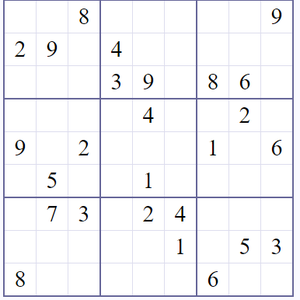
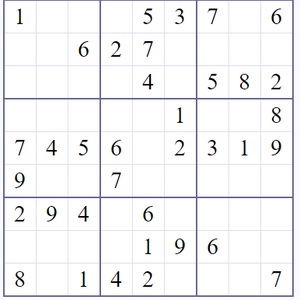
more work

diff --git a/backtracking.py b/backtracking.py
@@ -1,13 +1,13 @@
 import copy
-staticList = [[4, 2, 0, 0, 0, 3, 8, 0, 0],
-        [0, 0, 3, 4, 0, 0, 2, 7, 0],
-        [0, 8, 0, 0, 2, 5, 9, 3, 4],
-        [5, 0, 1, 0, 4, 0, 0, 0, 0],
-        [0, 0, 0, 5, 0, 7, 0, 0, 0],
-        [0, 0, 0, 0, 6, 0, 1, 0, 3],
-        [3, 1, 2, 8, 7, 0, 0, 4, 0],
-        [0, 5, 9, 0, 0, 4, 7, 0, 0],
-        [0, 0, 4, 9, 0, 0, 0, 6, 1]]
+staticList = [[1, 0, 0, 0, 5, 3, 7, 0, 6],
+              [0, 0, 6, 2, 7, 0, 0, 0, 0],
+              [0, 0, 0, 0, 4, 0, 5, 8, 2],
+              [0, 0, 0, 0, 0, 1, 0, 0, 8],
+              [7, 4, 5, 6, 0, 2, 3, 1, 9],
+              [9, 0, 0, 7, 0, 0, 0, 0, 0],
+              [2, 9, 4, 0, 6, 0, 0, 0, 0],
+              [0, 0, 0, 0, 1, 9, 6, 0, 0],
+              [8, 0, 1, 4, 2, 0, 0, 0, 7]]
 
 for i in range(9):
     try:
@@ -56,7 +56,7 @@ def rowSearch(firstIndex,searchValue,boardList):
     return True
 def findEmptyIndex(boardList,currentPoint):
     foundIndex = False
-    if currentPoint[1] == 9:
+    if currentPoint[1] == 0:
         currentPoint[0] -= 1
         currentPoint[1] = 0
     else:
@@ -65,23 +65,31 @@ def findEmptyIndex(boardList,currentPoint):
         if boardList[currentPoint[0]][currentPoint[1]] != 0:
             if currentPoint[1] == 0:
                 currentPoint[0] -= 1
-                currentPoint[1] = 9
+                currentPoint[1] = 8
             else:
                 currentPoint[1] -= 1
         else:
             return currentPoint
+
+
 while validEntry == False:
+    #if the current cell is not zero, then go back one cell and continue until it is 0
     if(staticList[activeIndex[0]][activeIndex[1]] != 0):
-        if activeIndex[1] == 9: #at the end of a row
+        if activeIndex[1] == 8: #at the end of a row
             activeIndex[0] += 1
             activeIndex[1] = 0
         else:
             activeIndex[1] += 1
         continue
+    #checks the current searchvalue through the search functions
     if not boxSearch(activeIndex, activeSearch, activeList) or not columnSearch(activeIndex,activeSearch,activeList) or not rowSearch(activeIndex,activeSearch,activeList):
-        if activeSearch == 9:
-            activeIndex = findEmptyIndex(staticList,activeIndex)
+        #if one of the searches failed IE Invalid Number
+
+        if activeSearch == 9: #if the current search term is a 9(IE reached the end of possibilities for current cell)
+            activeList[activeIndex[0]][activeList[1]] = 0
+            activeIndex = findEmptyIndex(staticList,activeIndex) #call function to find last original empty cell.
             while activeList[activeIndex[0]][activeIndex[1]] == 9:
+                activeList[activeIndex[0]][activeIndex[1]] = 0
                 activeIndex = findEmptyIndex(staticList,activeIndex)
             activeSearch = activeList[activeIndex[0]][activeIndex[1]] + 1
         else:
@@ -89,9 +97,11 @@ while validEntry == False:
     else:
         activeList[activeIndex[0]][activeIndex[1]] = activeSearch
         activeSearch = 1
-        if activeIndex[1] == 9:  # at the end of a row
+        if activeIndex[1] == 8:  # at the end of a row
             activeIndex[0] += 1
             activeIndex[1] = 0
         else:
             activeIndex[1] += 1
-    print(activeList)
+    for each in activeList:
+        print(each)
+    print("")

diff --git a/Solver.py b/Solver.py
@@ -3,15 +3,15 @@ import cv2, numpy as np
 from PIL import Image
 topLeftLocation = pyautogui.locateCenterOnScreen("TopLeft.png")
 bottomRightLocation = pyautogui.locateCenterOnScreen("BottomRight.png")
-sudokuGrid = [[[],[],[],[],[],[],[],[],[]],
-              [[],[],[],[],[],[],[],[],[]],
-              [[],[],[],[],[],[],[],[],[]],
-              [[],[],[],[],[],[],[],[],[]],
-              [[],[],[],[],[],[],[],[],[]],
-              [[],[],[],[],[],[],[],[],[]],
-              [[],[],[],[],[],[],[],[],[]],
-              [[],[],[],[],[],[],[],[],[]],
-              [[],[],[],[],[],[],[],[],[]]]
+sudokuGrid = [[0,0,0,0,0,0,0,0,0],
+              [0,0,0,0,0,0,0,0,0],
+              [0,0,0,0,0,0,0,0,0],
+              [0,0,0,0,0,0,0,0,0],
+              [0,0,0,0,0,0,0,0,0],
+              [0,0,0,0,0,0,0,0,0],
+              [0,0,0,0,0,0,0,0,0],
+              [0,0,0,0,0,0,0,0,0],
+              [0,0,0,0,0,0,0,0,0]]
 
 print("Puzzle Location: ",topLeftLocation,bottomRightLocation)
 size = 300,300
@@ -19,7 +19,7 @@ im = pyautogui.screenshot(imageFilename="my_screenshot.png",region=(topLeftLocat
 im2 = Image.open("my_screenshot.png")
 im2.thumbnail(size,Image.ANTIALIAS)
 im2.save("my_screenshot.png","PNG")
-imageList = ["8"]
+imageList = ["1","2","3","4","5","6","7","8","9"]
 img_rgb = cv2.imread("my_screenshot.png")
 for index, imageIndex in enumerate(imageList):
     # Reads in the images into CV2 objects
@@ -31,7 +31,7 @@ for index, imageIndex in enumerate(imageList):
     print("Width - Height: " , w,h)
     #finds the images in the main image
     res = cv2.matchTemplate(img_gray,template,cv2.TM_CCOEFF_NORMED)
-    threshold = 0.8
+    threshold = 0.825
 
     loc = np.where(res >= threshold)
     print(loc)
@@ -45,7 +45,7 @@ for index, imageIndex in enumerate(imageList):
         for j in range(9):
             for k, location in enumerate(loc[1]):
                 if((location >= 6 + (33*i) and location <= 37 + (33*i)) and (loc[0][k] >= 1 + (33*j) and loc[0][k] <= 32 + (33*j))):
-                    sudokuGrid[j][i].append(index + 1)
+                    sudokuGrid[j][i] = index + 1
 
 print(sudokuGrid)
 cv2.imshow("output",img_rgb)
